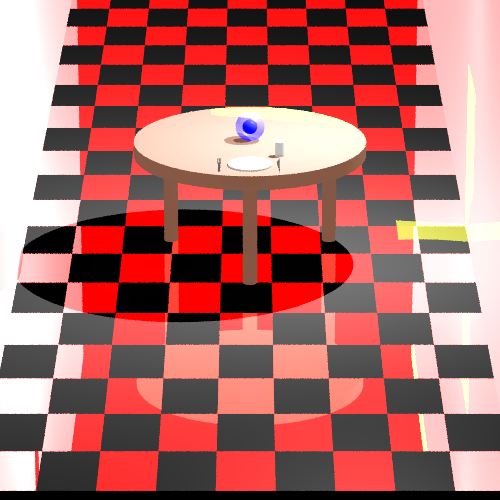
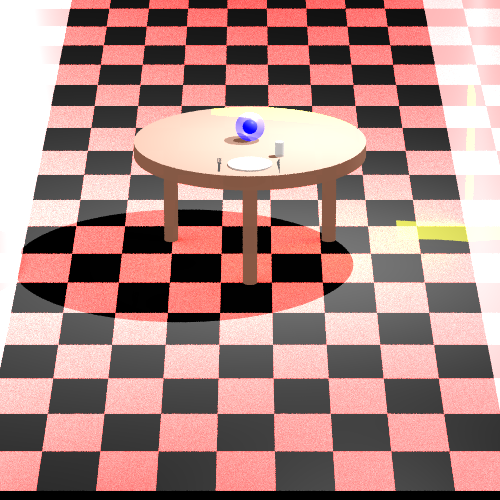
add hashmaps for better efficiency

diff --git a/src/renderer/Camera.java b/src/renderer/Camera.java
@@ -239,7 +239,8 @@ private Random random = new Random();
             Pixel.initialize(nY, nX, printInterval);
             IntStream.range(0, nY).parallel().forEach(i -> {
                 IntStream.range(0, nX).parallel().forEach(j -> {
-                    _imageWriter.writePixel(j, i, castRays_AntiAliasing(nY, nX, j, i));                    Pixel.pixelDone();
+                    _imageWriter.writePixel(j, i, castRays_AntiAliasing(nY, nX, j, i));
+                    Pixel.pixelDone();
                     Pixel.printPixel();
                 });
             });
@@ -377,7 +378,7 @@ private Random random = new Random();
 
         if (!checkEdges){
         //We call the function constructRayThroughPixel like we used to but this time we launch m * n ray in the same pixel
-            for (int k = 0; k < 10; k++) {
+            for (int k = 0; k < 15; k++) {
               //  Point tmp = Pij;
                 Ray ray=constructRayThroughPixel(nX, nY, Pij);
                 myra.add(ray);

diff --git a/src/renderer/RayTracerBasic.java b/src/renderer/RayTracerBasic.java
@@ -19,7 +19,7 @@ public class RayTracerBasic extends RayTracer {
     private static final int MAX_CALC_COLOR_LEVEL = 10;
     private static final double MIN_CALC_COLOR_K = 0.001;
     private static final double INITIAL_K = 1.0;
-    private int _glossinessRays = 1;
+    private int _glossinessRays = 10;
 
     /**
      * scene setter
@@ -55,7 +55,7 @@ public class RayTracerBasic extends RayTracer {
             return _scene._background;
         Color color = intersection._geometry.getEmission()
                 .add(calcLocalEffects(intersection,ray,k));
-        return 1 == level ? color : color.add(calcGlobalEffects(intersection, ray, level, k));
+        return 1 == level ? color : color.add(calcGlobalEffects2(intersection, ray, level, k));
 
     }
     /**

diff --git a/unitTests/renderer/ImprovementTest.java b/unitTests/renderer/ImprovementTest.java
@@ -110,7 +110,7 @@ new Polygon(new Point(-19.5,10.01,-160),new Point(-19.5,10.01,-145),new Point(-2
             rightBack= rightBack.add(new Vector(0,0, -60));
             rightTop=   rightTop.add(new Vector(0,0, -60));
             leftTop=  leftTop.add(new Vector(0,0, -60));
-            Material redMaterial=new Material().setnShininess(30).setKd(0.5).setKs(0.5).setKr(0.8).setKg(0.9);
+            Material redMaterial=new Material().setnShininess(30).setKd(0.5).setKs(0.5).setKr(0.8).setKg(0.5);
             Material blackMaterial=new Material().setnShininess(30).setKd(0.5).setKs(0.5);
             for (int j = 1; j < 10; j++) {
                 Polygon dal=new Polygon(leftBack.add(new Vector(35 * j, 0, 0))

diff --git a/src/primitives/Material.java b/src/primitives/Material.java
@@ -10,7 +10,7 @@ public class Material {
     /**
      *glossiness factor
      */
-    public Double3 _kG=new Double3(1);
+    public Double3 _kG= Double3.ONE;
 
     /**
      *shininess factor
